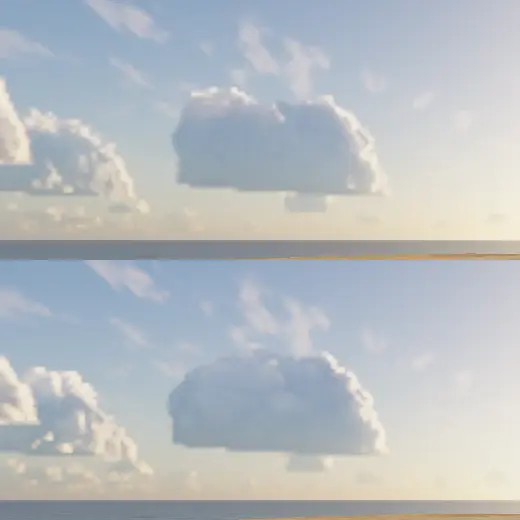
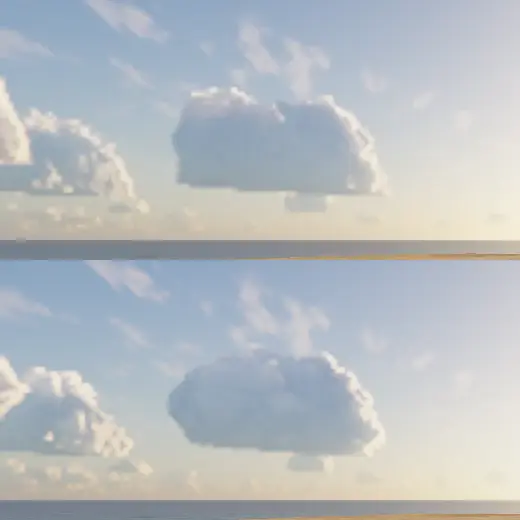
wip: a cloud's base rises in places with its own lumps
Claude-Session: https://claude.ai/code/session_01DaohkBFtfJ3LB6ENrHeTER

diff --git a/src/cube/shared/sky/clouds.ts b/src/cube/shared/sky/clouds.ts
@@ -16,6 +16,9 @@ const BILLOW_REACH = (BILLOW.broad + BILLOW.knobs + BILLOW.fine) / 2;
 /** How far a cloud's own noise pushes its footprint in and out, in radii². */
 const HEAP = 1.8;
 
+/** How far a cloud's base rises in places, in its own heights. */
+const BASE_RAG = 0.24;
+
 /** The angle one texel of the quarter-size sky spans, in radians, about. */
 const SKY_TEXEL = 0.005;
 
@@ -73,16 +76,18 @@ fn reachOf(y: f32, h: f32) -> f32 {
 /// so no two are one shape, and it stands tallest where the footprint is
 /// deepest: a heap of domes on one flat base.
 fn cloudBody(cloud: Cloud, field: vec3f) -> f32 {
-  let up = (field.y - CLOUD_BASE) / cloud.tall;
+  let lift = (field.y - CLOUD_BASE) / cloud.tall;
   // Its crown leans down the wind.
-  let within = (field.xz - cloud.centre) / cloud.radius - vec2f(0.15 * max(up, 0.0), 0.0);
-  let heap = 0.7 * cloudNoise2(within * 1.1 + 40.0, BILLOW_PERIOD, cloud.seed + 2u)
-    + 0.3 * cloudNoise2(within * 2.3 + 40.0, BILLOW_PERIOD, cloud.seed + 3u);
+  let within = (field.xz - cloud.centre) / cloud.radius - vec2f(0.15 * max(lift, 0.0), 0.0);
+  let lumps = cloudNoise2(within * 2.3 + 40.0, BILLOW_PERIOD, cloud.seed + 3u);
+  let heap = 0.7 * cloudNoise2(within * 1.1 + 40.0, BILLOW_PERIOD, cloud.seed + 2u) + 0.3 * lumps;
   let out = dot(within, within);
   let foot = 0.75 - out + ${f32(HEAP)} * (heap - 0.5);
   // The crown falls toward the rim, so the heap's outline is a dome's.
   let crown = max(1.0 - 0.25 * out, 0.6);
-  return foot - up * up / (crown * crown) - 3.0 * max(-up, 0.0);
+  // The base is level only about: it hangs lower under some lumps than others.
+  let under = max(${f32(BASE_RAG)} * lumps - lift, 0.0);
+  return foot - lift * lift / (crown * crown) - 3.0 * under;
 }
 
 /// A cloud's body with its billows at a point of the field, in the same

diff --git a/docs/remove-before-merging/cube-intro-j2wt34/reports/sky.md b/docs/remove-before-merging/cube-intro-j2wt34/reports/sky.md
@@ -23,9 +23,12 @@ Frames: `opposite`, `wake-sea`, and the approved eye as `approved-eye` with
   smaller than in sand's frame; that is the lens as your branch has it now, not
   the sky. The cloud differs in two ways: a taller dome (your flat-tops item)
   and a slightly dimmer bright rim.
-- **Not done.** The two mushrooms at the far left and right of `opposite`. The
-  operator also told me a cloud's underside reads as too even an arc; that is
-  the same flat base, and it is next.
+- **The base (added after the message).** The operator told me a cloud's
+  underside read as too even an arc. A base now rises in places with the
+  cloud's own lumps, up to a quarter of its height; the crown is untouched.
+  `approved-eye` and the pair are re-shot with it; `opposite` and `wake-sea` are
+  from just before it.
+- **Not done.** The two mushrooms at the far left and right of `opposite`.
 
 `cloudGlance` and `cloudVeil` moved to `sky/cloud-veil.ts` (`CLOUD_VEIL`), which
 `outside/sky.ts` now needs; `clouds.ts` is at 338 lines. Gates green:
